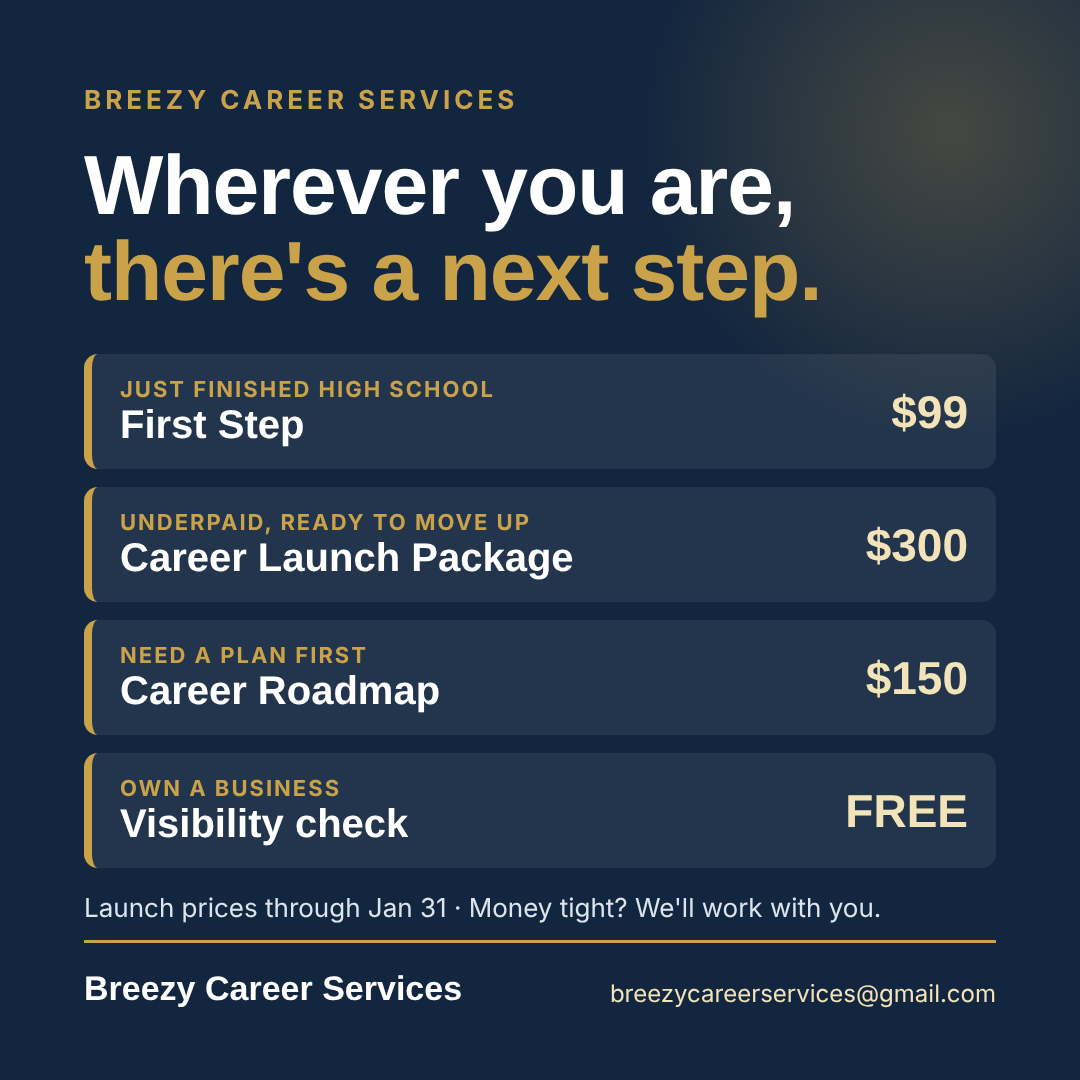
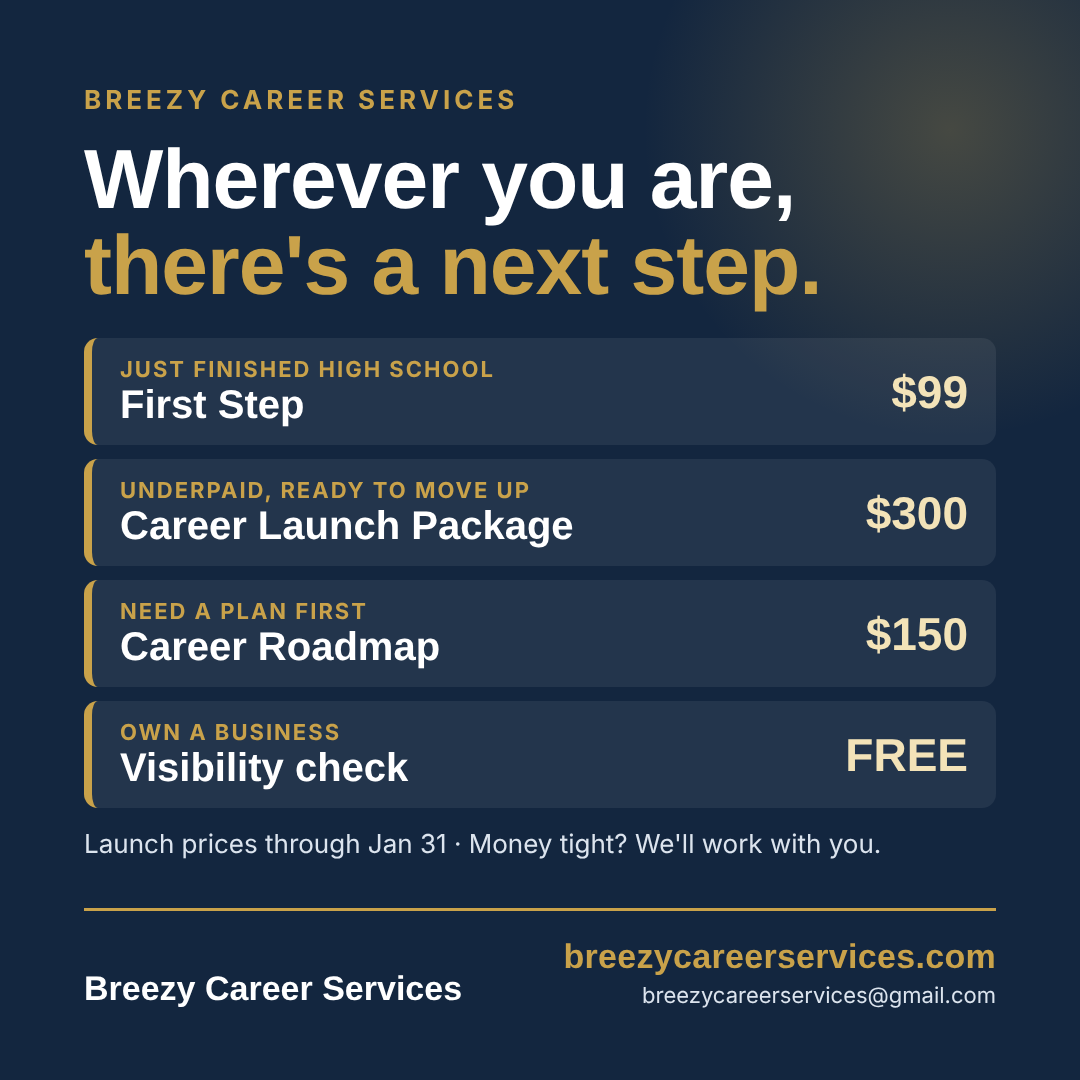
Add files via upload

diff --git a/business.html b/business.html
@@ -50,22 +50,56 @@
 <a class="btn gold" href="https://docs.google.com/forms/d/e/1FAIpQLSdFb2eQPVQm5jY2h3ijmGggKryPRr20mlvMFcGOA8ohJTyjcQ/viewform" target="_blank" rel="noopener">Start the business intake</a></div>
 </div></div></section>
 <section style="padding-top:0"><div class="wrap">
-<div class="head"><h2>Get found</h2></div>
+<div class="head"><h2>Get found</h2><p>Start small with a free check or a quick fix, or let us handle everything.</p></div>
 <div class="compare">The same pieces cost about $1,100 to $4,500+ bought separately, and $600 to $2,500 a month for ongoing posting and local SEO.</div>
 <div class="grid">
 <div class="card"><span class="tag">START HERE</span><h3>Free Visibility Check</h3>
 <div class="price">Free</div><div class="launch">No cost, no obligation</div>
 <ul><li>We check your website, Google listing, reviews and directories</li><li>You get a short list of what's costing you calls, by email within 3 business days</li></ul>
 <a class="btn navy" href="https://docs.google.com/forms/d/e/1FAIpQLSdFb2eQPVQm5jY2h3ijmGggKryPRr20mlvMFcGOA8ohJTyjcQ/viewform" target="_blank" rel="noopener">Get your free check</a></div>
+<div class="card"><span class="tag">QUICK FIX</span><h3>Google Listing Fix</h3>
+<div class="price"><s>$300</s>$200</div><div class="launch">Launch price through Jan 31, 2027</div>
+<ul><li>Your Google Business Profile category, name, address or service area and hours corrected</li><li>Description, services and photos added</li><li>4 Google posts</li><li>Counts toward the Get Found Setup within 60 days</li></ul>
+<a class="btn navy" href="https://docs.google.com/forms/d/e/1FAIpQLSdFb2eQPVQm5jY2h3ijmGggKryPRr20mlvMFcGOA8ohJTyjcQ/viewform" target="_blank" rel="noopener">Start the business intake</a></div>
+<div class="card"><span class="tag">QUICK FIX</span><h3>Review Kit</h3>
+<div class="price"><s>$100</s>$75</div><div class="launch">Launch price through Jan 31, 2027</div>
+<ul><li>A review-request text and email, ready to send</li><li>Copy for a printed card with a QR code</li><li>Reply templates for good, mixed and bad reviews</li><li>Google reviews only, and never paid for or rewarded</li></ul>
+<a class="btn navy" href="https://docs.google.com/forms/d/e/1FAIpQLSdFb2eQPVQm5jY2h3ijmGggKryPRr20mlvMFcGOA8ohJTyjcQ/viewform" target="_blank" rel="noopener">Start the business intake</a></div>
+</div>
+<div class="head" style="margin:40px 0 20px"><h3 style="font-size:26px">Full setup and ongoing help</h3></div>
+<div class="grid two">
 <div class="card feature"><div class="eyebrow dark">One-time setup</div><h3>Get Found Setup</h3>
 <div class="price"><s>$1,000</s>$750</div><div class="launch">Launch price through Jan 31, 2027</div>
-<ul><li>Google Business Profile fully set up and optimized</li><li>Listings cleaned up so your name, address and phone match everywhere</li><li>Website copy: an FAQ, 5 service pages and a service-area page</li><li>A website fix list and a review-request kit</li><li>Optional: we put the new pages on your site (+$350)</li></ul>
+<ul><li>Google Business Profile fully set up and optimized</li><li>Listings cleaned up so your name, address and phone match everywhere</li><li>Website copy: an FAQ, 5 service pages and a service-area page</li><li>A website fix list and a review-request kit</li><li>Optional: we put the new pages on your site (+$350). No site yet? See Websites below.</li></ul>
 <a class="btn gold" href="https://docs.google.com/forms/d/e/1FAIpQLSdFb2eQPVQm5jY2h3ijmGggKryPRr20mlvMFcGOA8ohJTyjcQ/viewform" target="_blank" rel="noopener">Start the business intake</a></div>
 <div class="card"><div class="eyebrow dark">Every month, optional</div><h3>Monthly Visibility Service</h3>
 <div class="price"><s>$600</s>$450 <small>a month</small></div><div class="launch">Launch price through Jan 31, 2027 · 3-month minimum, then month to month</div>
 <ul><li>12 Facebook and Instagram posts and 4 Google posts a month</li><li>Help asking for reviews, plus drafted replies to every review</li><li>A monthly listings check and a one-page report on calls, inquiries and reach</li></ul>
 <a class="btn navy" href="https://docs.google.com/forms/d/e/1FAIpQLSdFb2eQPVQm5jY2h3ijmGggKryPRr20mlvMFcGOA8ohJTyjcQ/viewform" target="_blank" rel="noopener">Start the business intake</a></div>
 </div></div></section>
+<section id="websites" style="padding-top:0"><div class="wrap">
+<div class="head"><h2>Websites</h2><p>A fix for the site you have, or a new one if you don't have a site yet.</p></div>
+<div class="compare">Freelancers usually charge about $500 to $1,500 for a one-page site and $1,500 to $5,000 for a 5 to 10 page site. Agencies start around $6,500.</div>
+<div class="grid">
+<div class="card"><span class="tag">HAVE A SITE</span><h3>Website Refresh</h3>
+<div class="price"><s>$500</s>$350</div><div class="launch">Launch price through Jan 31, 2027</div>
+<ul><li>Broken buttons and links fixed</li><li>Missing phone, hours and address added</li><li>Clearer copy for your services</li><li>Mobile check and basic SEO: page titles, descriptions and business info Google can read</li></ul>
+<a class="btn navy" href="https://docs.google.com/forms/d/e/1FAIpQLSdFb2eQPVQm5jY2h3ijmGggKryPRr20mlvMFcGOA8ohJTyjcQ/viewform" target="_blank" rel="noopener">Start the business intake</a></div>
+<div class="card feature"><span class="tag">NO SITE YET</span><h3>One-Page Site</h3>
+<div class="price"><s>$750</s>$500</div><div class="launch">Launch price through Jan 31, 2027</div>
+<ul><li>Your services and prices, hours and a tap-to-call button</li><li>A map and a booking or contact link</li><li>Built for phones first</li><li>Basic SEO so Google can read it</li></ul>
+<a class="btn gold" href="https://docs.google.com/forms/d/e/1FAIpQLSdFb2eQPVQm5jY2h3ijmGggKryPRr20mlvMFcGOA8ohJTyjcQ/viewform" target="_blank" rel="noopener">Start the business intake</a></div>
+<div class="card"><span class="tag">ROOM TO GROW</span><h3>Small Business Site</h3>
+<div class="price"><s>$1,800</s>$1,200</div><div class="launch">Launch price through Jan 31, 2027</div>
+<ul><li>About 5 pages: Home, Services, About, Contact, plus a Gallery or FAQ</li><li>A contact form or booking link</li><li>Basic SEO, with your sitemap submitted to Google</li></ul>
+<a class="btn navy" href="https://docs.google.com/forms/d/e/1FAIpQLSdFb2eQPVQm5jY2h3ijmGggKryPRr20mlvMFcGOA8ohJTyjcQ/viewform" target="_blank" rel="noopener">Start the business intake</a></div>
+</div>
+<div class="compare" style="margin:20px 0 0"><strong style="color:var(--navy)">Website Updates, $50 a month (optional):</strong> we make small changes for you, like hours, prices, photos and posts. Without it, changes are quoted per request.</div>
+<div class="promise" style="margin-top:16px">
+<div><strong>You own it</strong>The domain and hosting are set up in your name. Your only ongoing cost is your domain, usually about $10 to $20 a year.</div>
+<div><strong>No guarantees on rankings or customers</strong>We build it right and tell you honestly how it's doing.</div>
+</div>
+</div></section>
 <section class="tight"><div class="wrap">
 <div class="head"><span class="eyebrow dark">Straight answers</span><h2>No guarantees we can't keep.</h2></div>
 <div class="promise">

diff --git a/index.html b/index.html
@@ -45,7 +45,7 @@
 <ul><li>First Step for new graduates, from $99</li><li>Career Launch Package for underpaid professionals, $300</li><li>Career Roadmap when you need a plan first, $150</li></ul>
 <span class="go">See career services →</span></a>
 <a class="path" href="/business"><span class="eyebrow dark">For business owners</span><h3>Business Services</h3>
-<ul><li>Free Visibility Check</li><li>Business Roadmap and Business Plan</li><li>Get Found Setup and Monthly Visibility</li></ul>
+<ul><li>Free Visibility Check</li><li>Business Roadmap and Business Plan</li><li>Get Found Setup and Monthly Visibility</li><li>Websites, from $350</li></ul>
 <span class="go">See business services →</span></a>
 </div>
 <p class="note" style="margin-top:16px">Launch prices through Jan 31, 2027.</p>
